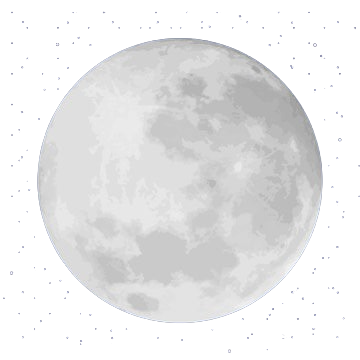
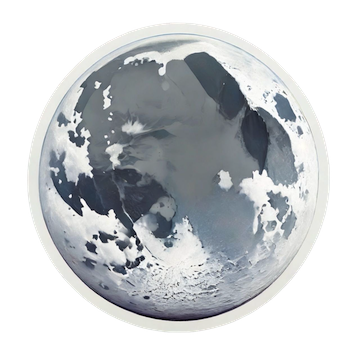
Fix lights

diff --git a/frontend/app/page.tsx b/frontend/app/page.tsx
@@ -40,9 +40,9 @@ export default function Home() {
  };
 
  const balloonStyle: MotionStyle = {
-  borderRadius: "50%",
   width: "150px",
   height: "150px",
+  borderRadius: "50%",
   background: "transparent",
   position: "absolute",
   display: "flex",
@@ -53,12 +53,12 @@ export default function Home() {
  };
 
  return (
-  <div className="w-screen">
-   <PostButton />
+  <div>
+  <PostButton />
    <Navbar />
-   <div className="w-1/2">
-    {[...Array(lantern)].map((_, index) => (
-     <div key={index}>
+   {[...Array(lantern)].map((_, index) => {
+    return (
+     <>
       <motion.div
        key={index}
        style={{
@@ -77,42 +77,35 @@ export default function Home() {
        }}
       >
        {/* Image */}
-       <label
-        data-tip="hello hello hello hello"
-        className="tooltip text-lg"
-        htmlFor={`modal-${index}`}
-       >
-        <img
-         style={imgStyle}
-         src="assets/lantern.png"
-         alt={`lantern-${index}`}
-        />
+       <label data-tip="hello hello hello hello" className="tooltip text-lg" htmlFor={`modal-${index}`}>
+        <img style={imgStyle} src="assets/lantern.png"></img>
        </label>
       </motion.div>
 
       {/* Modal */}
-      <div className="tooltip" key={index}>
-       <input type="checkbox" id={`modal-${index}`} className="modal-toggle" />
-       <div className="modal" role="dialog">
-        <div className="modal-box">
-         <h3 className="font-bold text-lg">{index}</h3>
-         <h3>Category</h3>
-         <textarea placeholder="Enter category"></textarea>
-         <h3>Title</h3>
-         <textarea placeholder="Enter title"></textarea>
-         <h3>Post</h3>
-         <textarea placeholder="Enter post content"></textarea>
-         <div className="modal-action">
-          <label htmlFor={`modal-${index}`} className="btn">
-           Close!
-          </label>
-         </div>
+      <div className="tooltip">
+      <input type="checkbox" id={`modal-${index}`} className="modal-toggle"/>
+      <div className="modal" role="dialog">
+       <div className="modal-box">
+        <h3 className="font-bold text-lg">{index}</h3>
+        <h3>Category</h3>
+        <textarea></textarea>
+        <h3>Title</h3>
+        <textarea></textarea>
+        <h3>Post</h3>
+        <textarea></textarea>
+        {/* <p className="py-4">This modal works with a hidden checkbox!</p> */}
+        <div className="modal-action">
+         <label htmlFor={`modal-${index}`} className="btn">
+          Close!
+         </label>
         </div>
        </div>
       </div>
-     </div>
-    ))}
-   </div>
+      </div>
+     </>
+    );
+   })}
   </div>
  );
 }

diff --git a/frontend/app/components/Moon/moon.tsx b/frontend/app/components/Moon/moon.tsx
@@ -18,13 +18,13 @@ function CircularMenu() {
             justify-content: center;
             align-items: center;
             min-height: 100vh;
-            background: linear-gradient(45deg, #8460ed, #19040a);
-        }
+            background: linear-gradient(to top, rgb(4, 21, 39), rgb(1, 7, 15)), url('/assets/cleanbackground.png');
+          }
         
         .menuMoon
         {
             position: relative;
-            width: 510px;
+            width: 500px;
             height: 250px;
             background: #f0f0;
             display: flex;
@@ -39,7 +39,7 @@ function CircularMenu() {
             left: 0;
             margin-top: -20px;
             list-style: none;
-            transform-origin: 250px;
+            transform-origin: 240px;
             transition: 0.5s;
             transition-delay: calc(0.1s * var(--i));
             transform: rotate(0deg) translateX(80px);
@@ -59,23 +59,23 @@ function CircularMenu() {
           height: 70px;
           background: radial-gradient(
             circle at 50% 50%,
-            #fff3d6 0%,
-            #ffda7b 51.04%,
-            #ffa700 100%
+            #ffe7b0 0%,
+            #fed05c 51.04%,
+            #c58000 100%
           );
           border-radius: 50%;
           transform: rotate(calc(360deg / 8 * var(--i)));
-          box-shadow: 0 0 20px yellow;
+          box-shadow: 0 0 20px #938200;
           color: #111;
           animation: glow 1.5s infinite alternate;
         }
         
         @keyframes glow {
           from {
-              box-shadow: 0 0 10px yellow, 0 0 20px yellow, 0 0 30px yellow;
+              box-shadow: 0 0 10px #938200, 0 0 20px #938200, 0 0 30px #938200;
           }
           to {
-              box-shadow: 0 0 20px yellow, 0 0 30px yellow, 0 0 40px yellow;
+              box-shadow: 0 0 20px #938200, 0 0 30px #938200, 0 0 40px #938200;
           }
       }
         .menuItemMoon a:hover

diff --git a/frontend/app/components/PostButton.tsx b/frontend/app/components/PostButton.tsx
@@ -2,30 +2,33 @@ import React from "react";
 import Link from "next/link";
 
 const PostButton = () => {
- return (
-  <Link href="/screens/create-post/page">
-   <span
-    className="post-button"
-    style={{
-     position: "fixed",
-     bottom: "50px",
-     right: "50px",
-     width: "80px",
-     height: "80px",
-     borderRadius: "50%",
-     backgroundColor: "#007bff",
-     color: "white",
-     border: "none",
-     fontSize: "24px",
-     cursor: "pointer",
-     boxShadow: "0px 4px 10px rgba(0, 0, 0, 0.2)",
-     zIndex: "1000",
-    }}
-   >
-    +
-   </span>
-  </Link>
- );
+  return (
+    <Link href="/screens/create-post/page">
+      <span
+        className="post-button"
+        style={{
+          position: "fixed",
+          bottom: "50px",
+          right: "50px",
+          width: "80px",
+          height: "80px",
+          borderRadius: "50%",
+          backgroundColor: "#007bff",
+          color: "white",
+          border: "none",
+          fontSize: "24px",
+          cursor: "pointer",
+          boxShadow: "0px 4px 10px rgba(0, 0, 0, 0.2)",
+          zIndex: "1000",
+          display: "flex",
+          alignItems: "center",
+          justifyContent: "center",
+        }}
+      >
+        +
+      </span>
+    </Link>
+  );
 };
 
 export default PostButton;

diff --git a/frontend/app/globals.css b/frontend/app/globals.css
@@ -17,8 +17,10 @@
 }
 
 body {
- color: rgb(var(--foreground-rgb));
- background: linear-gradient(to right, rgb(21, 2, 99), black);
+    color: rgb(var(--foreground-rgb));
+    background: linear-gradient(to top, rgb(4, 21, 39), rgb(1, 7, 15), rgb(4, 21, 39));
+    background-size: cover;
+    background-position: center;
 }
 
 @layer utilities {
@@ -30,9 +32,9 @@ body {
 .lantern-btn {
  background-image: radial-gradient(
   50% 50% at 50% 50%,
-  #fff3d6 0,
-  #ffda7b 51.04%,
-  #ffa700 100%
+  #ffe7b0 0,
+  #fed05c 51.04%,
+  #c58000 100%
  );
  box-shadow: 0 0 20px rgba(255, 252, 226, 0.5);
  border-radius: 15px;

diff --git a/frontend/app/components/Navbar.tsx b/frontend/app/components/Navbar.tsx
@@ -5,7 +5,7 @@ import Link from "next/link";
 const Navbar = () => {
   return (
     <div
-      className="navbar bg-base-100"
+      className="navbar bg-transparent relative"
       style={{
         position: "fixed",
         zIndex: "1000",
